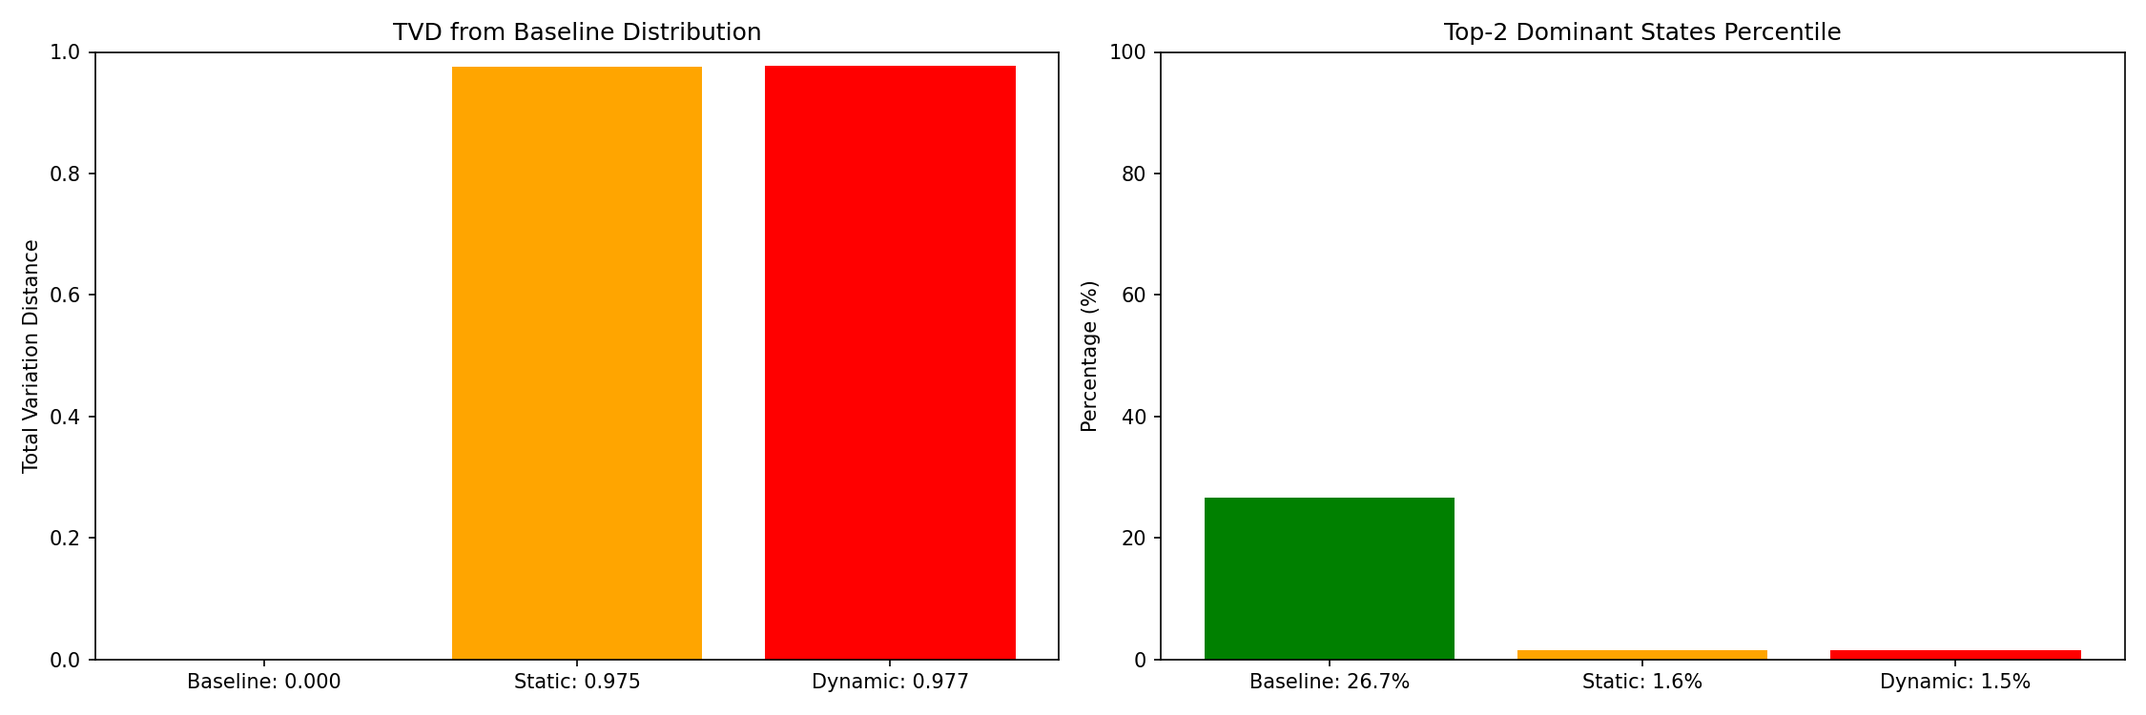
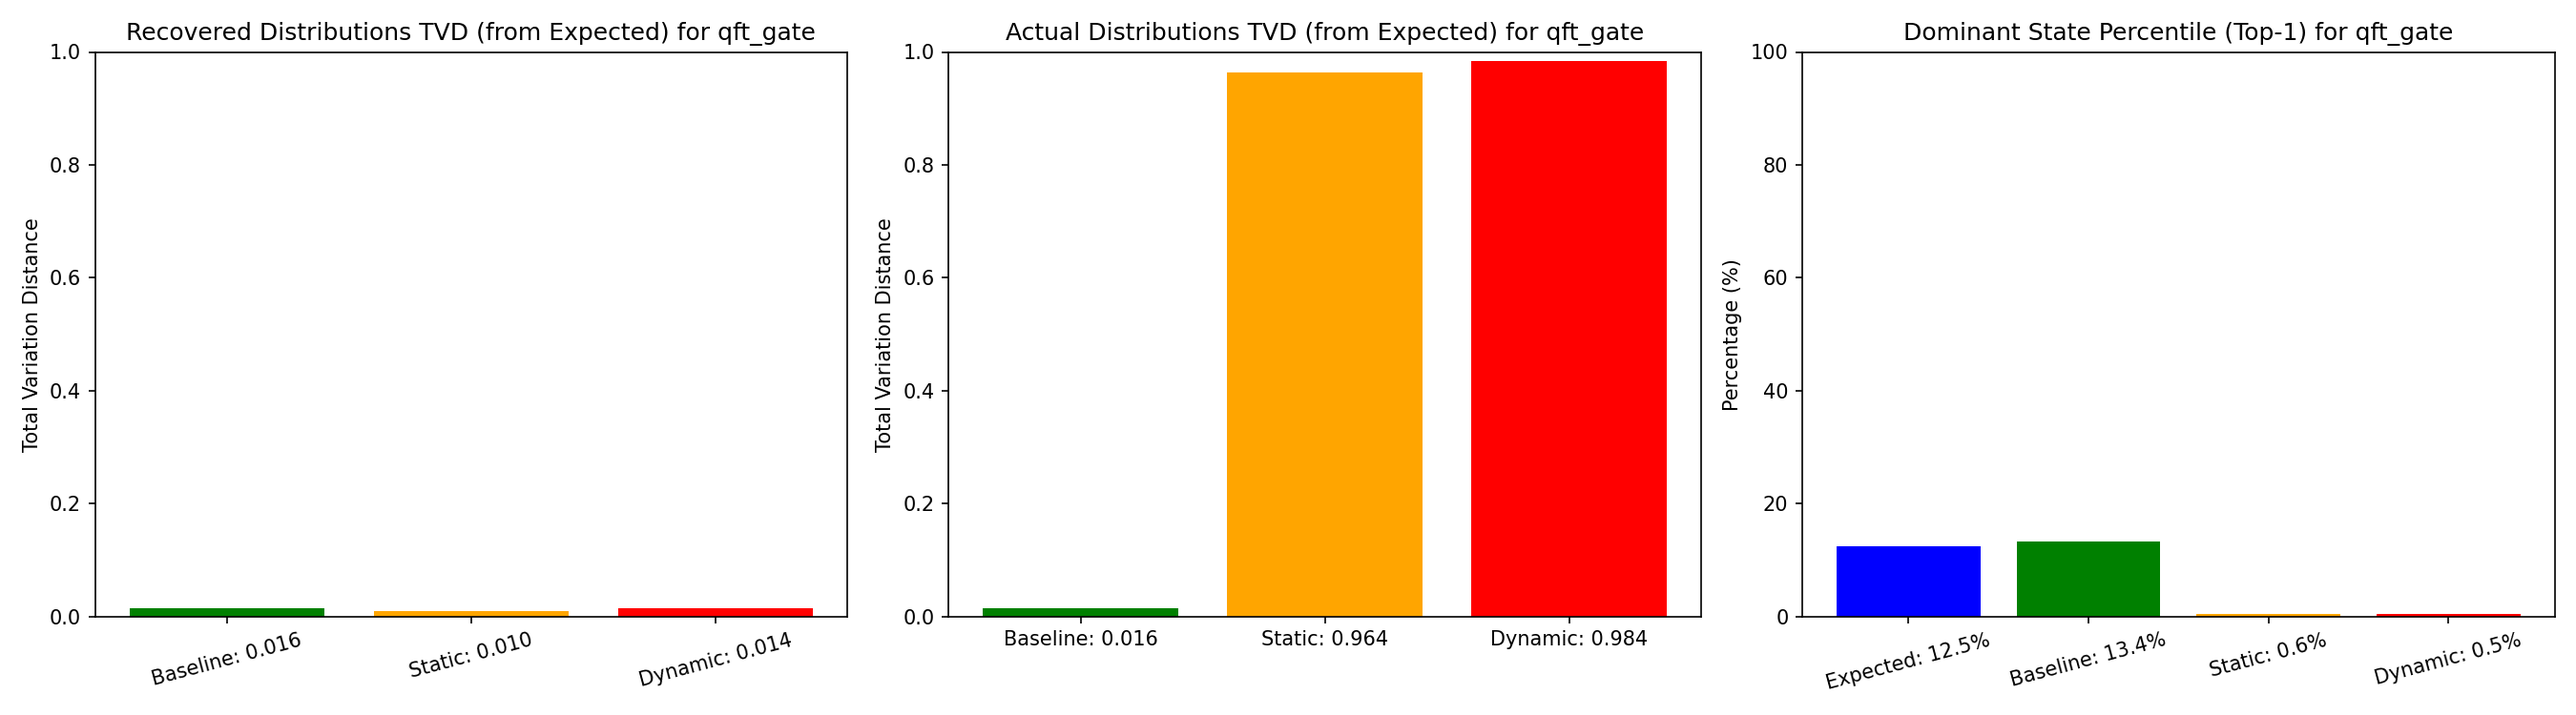
better analysis

diff --git a/analyze.py b/analyze.py
@@ -1,7 +1,7 @@
 import matplotlib.pyplot as plt
 
 
-def total_variation_distance(counts: dict, baseline_counts: dict, num_shots: int) -> float:
+def total_variation_distance(counts: dict, reference_counts: dict, num_shots: int) -> float:
     """
     Calculate total variation distance between observed distribution and baseline.
     TVD = 0.5 * sum(|p(x) - q(x)|) for all possible outcomes.
@@ -13,19 +13,19 @@ def total_variation_distance(counts: dict, baseline_counts: dict, num_shots: int
         float: Total variation distance.
     """
     # Get all possible keys from both distributions
-    all_keys = set(counts.keys()) | set(baseline_counts.keys())
+    all_keys = set(counts.keys()) | set(reference_counts.keys())
 
     # Calculate TVD
     tvd = 0.0
     for key in all_keys:
         p = counts.get(key, 0) / num_shots
-        q = baseline_counts.get(key, 0) / num_shots
+        q = reference_counts.get(key, 0) / num_shots
         tvd += abs(p - q)
 
     return 0.5 * tvd
 
 
-def dominant_state_percentile(counts: dict, num_shots: int, top_n: int = 2) -> float:
+def dominant_state_percentile(counts: dict, num_shots: int, top_n: int = 1) -> float:
     """
     Calculate the percentage of shots in the top N most frequent states.
     Args:
@@ -54,37 +54,58 @@ def analyze_results(name: str, expected: dict, baseline: dict, static_obf: dict,
         dynamic_recovered (dict): Recovered counts from dynamic recovery simulation.
         num_shots (int): Number of shots used in each simulation.
     """
-    experiments = ['Baseline', 'Static', 'Dynamic']
+    # Define experiment labels
+    experiments_4 = ['Expected', 'Baseline', 'Static', 'Dynamic']
+    experiments_3 = ['Baseline', 'Static', 'Dynamic']
 
     # Calculate metrics
-    tvd_values = [
+    # Plot 1: Recovered distributions TVD (4 bars including Expected)
+    recovered_tvd_values = [
+        total_variation_distance(baseline, expected, num_shots),
+        total_variation_distance(static_recovered, expected, num_shots),
+        total_variation_distance(dynamic_recovered, expected, num_shots)
+    ]
+
+    # Plot 2: Actual (non-recovered) distributions TVD (3 bars only)
+    actual_tvd_values = [
         total_variation_distance(baseline, expected, num_shots),
         total_variation_distance(static_obf, expected, num_shots),
         total_variation_distance(dynamic_obf, expected, num_shots)
     ]
 
+    # Plot 3: Dominant state percentile (4 bars including Expected)
     dominant_values = [
+        dominant_state_percentile(expected, num_shots),
         dominant_state_percentile(baseline, num_shots),
         dominant_state_percentile(static_obf, num_shots),
         dominant_state_percentile(dynamic_obf, num_shots)
     ]
 
-    # Create figure with 2 subplots
-    fig, axes = plt.subplots(1, 2, figsize=(15, 5))
+    # Create figure with 3 subplots
+    fig, axes = plt.subplots(1, 3, figsize=(18, 5))
 
-    # Plot 1: TVD bar chart
-    tvd_labels = [f'{exp}: {val:.3f}' for exp, val in zip(experiments, tvd_values)]
-    axes[0].bar(tvd_labels, tvd_values, color=['green', 'orange', 'red'])
+    # Plot 1: Recovered TVD bar chart (3 bars)
+    recovered_labels = [f'{exp}: {val:.3f}' for exp, val in zip(experiments_3, recovered_tvd_values)]
+    axes[0].bar(recovered_labels, recovered_tvd_values, color=['green', 'orange', 'red'])
     axes[0].set_ylabel('Total Variation Distance')
-    axes[0].set_title(f'TVD from Expected Distribution for {name}')
+    axes[0].set_title(f'Recovered Distributions TVD (from Expected) for {name}')
     axes[0].set_ylim(0, 1)
+    axes[0].tick_params(axis='x', rotation=15)
 
-    # Plot 2: Dominant state percentile bar chart
-    dom_labels = [f'{exp}: {val:.1f}%' for exp, val in zip(experiments, dominant_values)]
-    axes[1].bar(dom_labels, dominant_values, color=['green', 'orange', 'red'])
-    axes[1].set_ylabel('Percentage (%)')
-    axes[1].set_title(f'Dominant State Percentile for {name}')
-    axes[1].set_ylim(0, 100)
+    # Plot 2: Actual TVD bar chart (3 bars)
+    actual_labels = [f'{exp}: {val:.3f}' for exp, val in zip(experiments_3, actual_tvd_values)]
+    axes[1].bar(actual_labels, actual_tvd_values, color=['green', 'orange', 'red'])
+    axes[1].set_ylabel('Total Variation Distance')
+    axes[1].set_title(f'Actual Distributions TVD (from Expected) for {name}')
+    axes[1].set_ylim(0, 1)
+
+    # Plot 3: Dominant state percentile bar chart (4 bars)
+    dom_labels = [f'{exp}: {val:.1f}%' for exp, val in zip(experiments_4, dominant_values)]
+    axes[2].bar(dom_labels, dominant_values, color=['blue', 'green', 'orange', 'red'])
+    axes[2].set_ylabel('Percentage (%)')
+    axes[2].set_title(f'Dominant State Percentile (Top-1) for {name}')
+    axes[2].set_ylim(0, 100)
+    axes[2].tick_params(axis='x', rotation=15)
 
     plt.tight_layout()
     plt.savefig('obfuscation_analysis.png', dpi=150)
@@ -92,7 +113,14 @@ def analyze_results(name: str, expected: dict, baseline: dict, static_obf: dict,
 
     # Print metrics
     print("\n=== Analysis Results ===")
-    for i, exp in enumerate(experiments):
-        print(f"{exp}:")
-        print(f"  TVD from baseline: {tvd_values[i]:.4f}")
-        print(f"  Dominant State: {dominant_values[i]:.2f}%")
+    print("\nRecovered Distributions TVD:")
+    for i, exp in enumerate(experiments_3):
+        print(f"  {exp}: {recovered_tvd_values[i]:.4f}")
+
+    print("\nActual Distributions TVD:")
+    for i, exp in enumerate(experiments_3):
+        print(f"  {exp}: {actual_tvd_values[i]:.4f}")
+
+    print("\nDominant State Percentile (Top-1):")
+    for i, exp in enumerate(experiments_4):
+        print(f"  {exp}: {dominant_values[i]:.2f}%")

diff --git a/simulation.py b/simulation.py
@@ -89,39 +89,59 @@ def run_obfuscation_simulation(
     recovered_res = defaultdict(int)
     num_trials = num_shots // obfuscation_interval
 
-    for _ in range(num_trials):
-        start_idx = 3 if static else random.randint(0, 7)
+    for trial_idx in range(num_trials):
+        # Retry mechanism for valid circuit generation (random generation will occasionally break transpiler)
+        max_retries = 10
 
-        # Build circuit with gate at random/fixed position
-        qc = build_circuit_with_gate(
-            num_qubits=10,
-            gate=gate,
-            start_index=start_idx,
-            measure=False,
-        )
+        for attempt in range(max_retries):
+            try:
+                start_idx = 3 if static else random.randint(0, 7)
 
-        # Random circuit BEFORE gate
-        if start_idx > 0:
-            rand_top = random_circuit(
-                num_qubits=start_idx,
-                depth=4,
-                max_operands=2,
-            )
-            qc.compose(rand_top, qubits=list(range(start_idx)), inplace=True)
+                # Build circuit with gate at random/fixed position
+                qc = build_circuit_with_gate(
+                    num_qubits=10,
+                    gate=gate,
+                    start_index=start_idx,
+                    measure=False,
+                )
 
-        # Random circuit AFTER gate
-        end_idx = start_idx + gate.num_qubits
-        if end_idx < 10:
-            rand_bottom = random_circuit(
-                num_qubits=10 - end_idx,
-                depth=4,
-                max_operands=2,
-            )
-            qc.compose(rand_bottom, qubits=list(range(end_idx, 10)), inplace=True)
+                # Random circuit BEFORE gate
+                if start_idx > 0:
+                    rand_top = random_circuit(
+                        num_qubits=start_idx,
+                        depth=4,
+                        max_operands=2,
+                    )
+                    qc.compose(rand_top, qubits=list(range(start_idx)), inplace=True)
 
-        qc.measure_all()
-        counts = simulate_circuit(qc, shots=obfuscation_interval)
+                # Random circuit AFTER gate
+                end_idx = start_idx + gate.num_qubits
+                if end_idx < 10:
+                    rand_bottom = random_circuit(
+                        num_qubits=10 - end_idx,
+                        depth=4,
+                        max_operands=2,
+                    )
+                    qc.compose(rand_bottom, qubits=list(range(end_idx, 10)), inplace=True)
 
+                qc.measure_all()
+                counts = simulate_circuit(qc, shots=obfuscation_interval)
+
+                # Success - break out of retry loop
+                break
+
+            except BaseException as e:
+                print(f"[DEBUG] Exception in trial {trial_idx + 1}, attempt {attempt + 1}: {type(e).__name__}")
+                print(f"[DEBUG] Error at: {str(e)[:150]}")
+                if attempt == max_retries - 1:
+                    print(f"\n[ERROR] Failed to generate valid circuit after {max_retries} attempts in trial {trial_idx + 1}")
+                    print(f"[ERROR] Final error details: {e}")
+                    raise
+                # Retry with new random circuit
+                print(f"[DEBUG] Retrying... (attempt {attempt + 2}/{max_retries})")
+                continue
+
+        # Process results after successful simulation
         for outcome, count in counts.items():
             res[outcome] += count
 
@@ -130,10 +150,10 @@ def run_obfuscation_simulation(
             result_bits = ''.join(
                 bits[start_idx + i] for i in range(gate.num_qubits)
             )
-            recovered_res[result_bits] += count
+            recovered_res['0000' + result_bits + '000'] += count
 
     print(f"\n=== {'Static' if static else 'Dynamic'} Obfuscation Recovered Counts ===")
     for key in sorted(recovered_res):
         print(f"{key}: {recovered_res[key]}")
 
-    return dict(res)
+    return (dict(res), dict(recovered_res))

diff --git a/main.py b/main.py
@@ -6,7 +6,7 @@ from analyze import analyze_results
 # Main execution
 # ------------------------------------------------------------------
 if __name__ == "__main__":
-    NUM_SHOTS = 1000
+    NUM_SHOTS = 5000
 
     # Load gate blocks
     ghz_gate = load_gate("circuits/ghz_indep_qiskit_3.qasm")
@@ -43,8 +43,8 @@ if __name__ == "__main__":
         print(f"\n=== Running simulations for gate: {name} ===")
         print(gate)
         baseline = run_baseline_simulation(num_shots=NUM_SHOTS, gate=gate)
-        static_obf = run_obfuscation_simulation(num_shots=NUM_SHOTS, obfuscation_interval=10, gate=gate, static=True)
-        dynamic_obf = run_obfuscation_simulation(num_shots=NUM_SHOTS, obfuscation_interval=10, gate=gate, static=False)
+        static_obf, static_recovered = run_obfuscation_simulation(num_shots=NUM_SHOTS, obfuscation_interval=10, gate=gate, static=True)
+        dynamic_obf, dynamic_recovered = run_obfuscation_simulation(num_shots=NUM_SHOTS, obfuscation_interval=10, gate=gate, static=False)
 
-        analyze_results(expected_distributions[name], baseline, static_obf, dynamic_obf, NUM_SHOTS)
+        analyze_results(name, expected_distributions[name], baseline, static_obf, static_recovered, dynamic_obf, dynamic_recovered, NUM_SHOTS)
 
